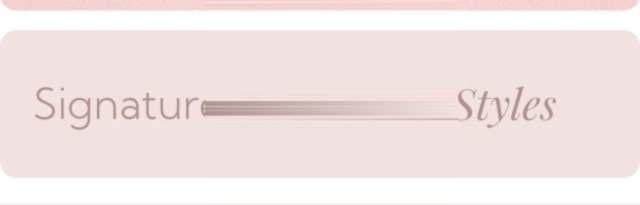
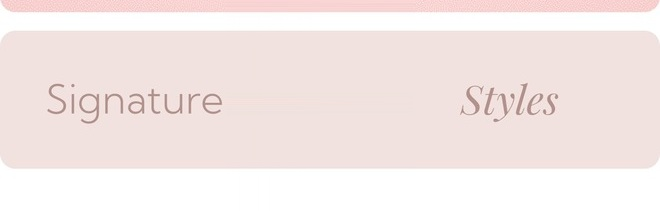
Slide 06: the ring grows on hover, one ring only; ring count 9; broken keyframes line repaired

diff --git a/ua/index.html b/ua/index.html
@@ -1152,12 +1152,11 @@ a.irow:hover b{text-decoration:underline}
   text-transform:uppercase;color:#9b948d}
 .ov .swipe svg{width:6.4cqw;height:2.6cqw;flex:none;color:#9b948d;animation:swipeArrow 2.4s ease-in-out infinite}
 .ov .swipe u{text-decoration:none}
-@keyframes swipeArrow{0%,100%{transform:translateX(-.9cqw);opacity:.45}50%{transform:translateX(.9cqw);opacity:1}}55%,100%{transform:translateX(-1.5cqw)}}
-.ov .sigclip{position:absolute;left:0;right:0;top:11.07%;height:10.95%;overflow:hidden;display:block}
-.ov .sigclip img{position:absolute;left:34.88%;top:0;width:27.13%;transform-origin:50% 50%;
-  animation:sigBreath 3.6s ease-in-out infinite}
-@keyframes sigBreath{0%,100%{transform:scale(1)}50%{transform:scale(1.075)}}
-@media (prefers-reduced-motion:reduce){.ov .sigclip img{animation:none}}
+@keyframes swipeArrow{0%,100%{transform:translateX(-.9cqw);opacity:.45}50%{transform:translateX(.9cqw);opacity:1}}
+.ov .sigclip{position:absolute;left:0;right:0;top:8.637%;height:16.719%;overflow:hidden;display:block;background:url(../img/n-sig-bg.jpg) center/100% 100% no-repeat}
+.ov .sigclip img{position:absolute;left:34.85%;top:14.69%;width:27.12%;transform-origin:50% 50%;transform:scale(1);transition:transform .7s cubic-bezier(.22,.61,.36,1)}
+.v2:hover .ov .sigclip img,.v2:active .ov .sigclip img{transform:scale(1.08)}
+@media (prefers-reduced-motion:reduce){.ov .sigclip img{transition:none}}
 
 /* 04 — однакова відстань від підказки свайпу до заголовка і до каблучок */
 .rf2 .r-swipe{margin:9.3cqw auto 3.4cqw}
@@ -1280,7 +1279,7 @@ a.irow:hover b{text-decoration:underline}
   <img class="silk sm" src="../img/silk.png" alt="">
   <div class="shead"><span class="num">06</span><h2><span class="sev low">Низький пріоритет</span>Смуга «Signature Styles» не реагує ні на що</h2></div>
   <div class="pbody">
-    <div class="txt t1"><div class="lbl"><span class="pill">Зараз</span><svg class="conn" viewBox="0 0 54 12"><path d="M0 6h50M45 1.5 50 6l-5 4.5" fill="none" stroke="#6d6d6d" stroke-width="1.5"/></svg></div><p>Одразу під банером лежить рожева смуга «Signature Styles» із каблучкою посередині — це <b>найдорожче місце сторінки</b>.</p><p>І це просто картинка: ні руху, ні реакції на дотик чи курсор. Вона читається як декоративна плашка, яку можна проґортати.</p></div><div class="v1"><div class="phone"><div class="screen"><div class="island"></div><div class="sbar"><span>9:41</span><svg viewBox="0 0 24 11"><rect x=".5" y=".5" width="20" height="10" rx="3" fill="none" stroke="#111"/><rect x="2" y="2" width="16" height="7" rx="1.5" fill="#111"/><rect x="21.5" y="3.5" width="1.8" height="4" rx=".9" fill="#111"/></svg></div><div class="view"><img class="shot" src="../img/n-signature-ctx-m.jpg" alt=""></div><div class="url"><span>rinfit.com</span></div></div></div><div class="cap">Смуга під банером — нерухома</div></div><div class="txt t2"><div class="lbl"><span class="pill">Пропонуємо</span><svg class="conn" viewBox="0 0 54 12"><path d="M0 6h50M45 1.5 50 6l-5 4.5" fill="none" stroke="#6d6d6d" stroke-width="1.5"/></svg></div><p>Оживити каблучку: вона <b>повільно наближається й віддаляється сама</b>, без наведення — на телефоні наводити нічим.</p><p>Праворуч — <b>той самий екран сайту</b>, змінено тільки одне: каблучка дихає.</p><span class="livetag"><i></i>анімація працює прямо тут</span></div><div class="v2"><div class="phone"><div class="screen"><div class="island"></div><div class="sbar"><span>9:41</span><svg viewBox="0 0 24 11"><rect x=".5" y=".5" width="20" height="10" rx="3" fill="none" stroke="#111"/><rect x="2" y="2" width="16" height="7" rx="1.5" fill="#111"/><rect x="21.5" y="3.5" width="1.8" height="4" rx=".9" fill="#111"/></svg></div><div class="view"><img class="shot" src="../img/n-signature-ctx-m.jpg" alt=""><div class="ov"><span class="sigclip"><img src="../img/n-sig-ring.png" alt=""></span></div></div><div class="url"><span>rinfit.com</span></div></div></div><div class="cap">Той самий екран — каблучка дихає</div></div><div class="cardcol"><div class="benefit-top"><span class="pill">Користь</span><span class="arrow"><svg width="14" height="16" viewBox="0 0 14 16"><path d="M7 1v13M1.5 8.5 7 14l5.5-5.5" fill="none" stroke="#444" stroke-width="1.6"/></svg></span></div><div class="card"><p>Смуга перестає бути прикрасою й починає вести в колекцію. Анімація — суто на стороні браузера: вага сторінки не росте, швидкість не падає.</p><div class="stats"><div><b>1-й екран</b><span>місце, де стоїть смуга</span></div><div><b>0 реакцій</b><span>на дотик і курсор зараз</span></div></div></div><div class="ptag"><span>Вартість</span><b>$30</b><em>1 год роботи &#183; $30/год</em></div></div>
+    <div class="txt t1"><div class="lbl"><span class="pill">Зараз</span><svg class="conn" viewBox="0 0 54 12"><path d="M0 6h50M45 1.5 50 6l-5 4.5" fill="none" stroke="#6d6d6d" stroke-width="1.5"/></svg></div><p>Одразу під банером лежить рожева смуга «Signature Styles» із каблучкою посередині — це <b>найдорожче місце сторінки</b>.</p><p>І це просто картинка: ні руху, ні реакції на дотик чи курсор. Вона читається як декоративна плашка, яку можна проґортати.</p></div><div class="v1"><div class="phone"><div class="screen"><div class="island"></div><div class="sbar"><span>9:41</span><svg viewBox="0 0 24 11"><rect x=".5" y=".5" width="20" height="10" rx="3" fill="none" stroke="#111"/><rect x="2" y="2" width="16" height="7" rx="1.5" fill="#111"/><rect x="21.5" y="3.5" width="1.8" height="4" rx=".9" fill="#111"/></svg></div><div class="view"><img class="shot" src="../img/n-signature-ctx-m.jpg" alt=""></div><div class="url"><span>rinfit.com</span></div></div></div><div class="cap">Смуга під банером — нерухома</div></div><div class="txt t2"><div class="lbl"><span class="pill">Пропонуємо</span><svg class="conn" viewBox="0 0 54 12"><path d="M0 6h50M45 1.5 50 6l-5 4.5" fill="none" stroke="#6d6d6d" stroke-width="1.5"/></svg></div><p>Каблучка відповідає на увагу: <b>коли курсор над плашкою, вона трохи наближається; коли курсор іде — повертається</b>. На телефоні те саме, поки палець тримає плашку.</p><p>Праворуч — <b>той самий екран сайту</b>, змінено тільки одне: каблучка реагує.</p><span class="livetag"><i></i>наведіть на телефон, щоб побачити</span></div><div class="v2"><div class="phone"><div class="screen"><div class="island"></div><div class="sbar"><span>9:41</span><svg viewBox="0 0 24 11"><rect x=".5" y=".5" width="20" height="10" rx="3" fill="none" stroke="#111"/><rect x="2" y="2" width="16" height="7" rx="1.5" fill="#111"/><rect x="21.5" y="3.5" width="1.8" height="4" rx=".9" fill="#111"/></svg></div><div class="view"><img class="shot" src="../img/n-signature-ctx-m.jpg" alt=""><div class="ov"><span class="sigclip"><img src="../img/n-sig-ring.png" alt=""></span></div></div><div class="url"><span>rinfit.com</span></div></div></div><div class="cap">Той самий екран — при наведенні каблучка ближче</div></div><div class="cardcol"><div class="benefit-top"><span class="pill">Користь</span><span class="arrow"><svg width="14" height="16" viewBox="0 0 14 16"><path d="M7 1v13M1.5 8.5 7 14l5.5-5.5" fill="none" stroke="#444" stroke-width="1.6"/></svg></span></div><div class="card"><p>Смуга перестає бути прикрасою й починає вести в колекцію. Анімація — суто на стороні браузера: вага сторінки не росте, швидкість не падає.</p><div class="stats"><div><b>1-й екран</b><span>місце, де стоїть смуга</span></div><div><b>0 реакцій</b><span>на дотик і курсор зараз</span></div></div></div><div class="ptag"><span>Вартість</span><b>$30</b><em>1 год роботи &#183; $30/год</em></div></div>
   </div>
 </section>
 
@@ -1313,7 +1312,7 @@ a.irow:hover b{text-decoration:underline}
     <div class="tcol">
       <div class="benefit-top"><span class="pill">Користь</span><span class="arrow"><svg width="14" height="16" viewBox="0 0 14 16"><path d="M7 1v13M1.5 8.5 7 14l5.5-5.5" fill="none" stroke="#444" stroke-width="1.6"/></svg></span></div>
       <div class="card"><p>Покупець приміряє каблучку до покупки — менше обмінів через розмір, більше часу на сторінці й готовий матеріал для TikTok, де в бренду вже є аудиторія.</p>
-        <div class="stats"><div><b>12 каблучок</b><span>уже змодельовано</span></div><div><b>на пристрої</b><span>камера нікуди не передається</span></div></div></div>
+        <div class="stats"><div><b>9 каблучок</b><span>уже змодельовано</span></div><div><b>на пристрої</b><span>камера нікуди не передається</span></div></div></div>
       <div class="ptag"><span>Вартість</span><b>Окремо</b><em>обсяг і ціну узгоджуємо після демо</em></div>
     </div>
   </div>
@@ -1388,8 +1387,8 @@ Keep your fingers pointing up.</div></div>
     <div class="pbox alt">
       <span class="pill">Окремо: примірка каблучки</span>
       <div class="sum">Демо</div>
-      <p>Примірка через камеру прямо на сторінці товару. Прототип із 12 змодельованими каблучками вбудований у цей документ — його можна спробувати на слайді 08. Обсяг і вартість узгоджуємо після демонстрації.</p>
-      <div class="terms"><span>12 каблучок змодельовано</span><span>Працює на пристрої покупця</span></div>
+      <p>Примірка через камеру прямо на сторінці товару. Прототип із 9 змодельованими каблучками вбудований у цей документ — його можна спробувати на слайді 08. Обсяг і вартість узгоджуємо після демонстрації.</p>
+      <div class="terms"><span>9 каблучок змодельовано</span><span>Працює на пристрої покупця</span></div>
     </div>
     </div>
     <div class="plist"><h4><span class="sev crit">Критично</span> 3 год · $90</h4><div class="prow"><i>01</i><span>Обраний колір доходить до вікна покупки</span><em>3 год</em><b>$90</b></div><h4 style="margin-top:22px"><span class="sev imp">Середній пріоритет</span> 3 год · $90</h4><div class="prow"><i>02</i><span>Справжня кнопка на головному банері</span><em>1 год</em><b>$30</b></div><div class="prow"><i>03</i><span>Знижка помітною плашкою біля ціни</span><em>0,5 год</em><b>$15</b></div><div class="prow"><i>04</i><span>Підказка свайпу для рядів на телефоні</span><em>1,5 год</em><b>$45</b></div><h4 style="margin-top:22px"><span class="sev low">Низький пріоритет</span> 3 год · $90</h4><div class="prow"><i>05</i><span>Один радіус для картинок і кнопок</span><em>1 год</em><b>$30</b></div><div class="prow"><i>06</i><span>Каблучка в Signature Styles оживає</span><em>1 год</em><b>$30</b></div><div class="prow"><i>07</i><span>Однакове тло мініатюр у Community</span><em>1 год</em><b>$30</b></div><div class="ptotal"><span>Разом</span><span>9 год · $270</span></div></div>

diff --git a/index.html b/index.html
@@ -1147,12 +1147,13 @@ a.irow:hover b{text-decoration:underline}
   text-transform:uppercase;color:#9b948d}
 .ov .swipe svg{width:6.4cqw;height:2.6cqw;flex:none;color:#9b948d;animation:swipeArrow 2.4s ease-in-out infinite}
 .ov .swipe u{text-decoration:none}
-@keyframes swipeArrow{0%,100%{transform:translateX(-.9cqw);opacity:.45}50%{transform:translateX(.9cqw);opacity:1}}55%,100%{transform:translateX(-1.5cqw)}}
-.ov .sigclip{position:absolute;left:0;right:0;top:11.07%;height:10.95%;overflow:hidden;display:block}
-.ov .sigclip img{position:absolute;left:34.88%;top:0;width:27.13%;transform-origin:50% 50%;
-  animation:sigBreath 3.6s ease-in-out infinite}
-@keyframes sigBreath{0%,100%{transform:scale(1)}50%{transform:scale(1.075)}}
-@media (prefers-reduced-motion:reduce){.ov .sigclip img{animation:none}}
+@keyframes swipeArrow{0%,100%{transform:translateX(-.9cqw);opacity:.45}50%{transform:translateX(.9cqw);opacity:1}}
+/* the band with the ring painted out sits under the cut-out ring, so the ring can grow without a second copy
+   showing through; it grows a little while the cursor is over the phone (or a finger holds it) and settles back */
+.ov .sigclip{position:absolute;left:0;right:0;top:8.637%;height:16.719%;overflow:hidden;display:block;background:url(img/n-sig-bg.jpg) center/100% 100% no-repeat}
+.ov .sigclip img{position:absolute;left:34.85%;top:14.69%;width:27.12%;transform-origin:50% 50%;transform:scale(1);transition:transform .7s cubic-bezier(.22,.61,.36,1)}
+.v2:hover .ov .sigclip img,.v2:active .ov .sigclip img{transform:scale(1.08)}
+@media (prefers-reduced-motion:reduce){.ov .sigclip img{transition:none}}
 
 /* 04 — однакова відстань від підказки свайпу до заголовка і до каблучок */
 .rf2 .r-swipe{margin:9.3cqw auto 3.4cqw}
@@ -1274,7 +1275,7 @@ a.irow:hover b{text-decoration:underline}
   <img class="silk sm" src="img/silk.png" alt="">
   <div class="shead"><span class="num">06</span><h2><span class="sev low">Low priority</span>The “Signature Styles” band reacts to nothing</h2></div>
   <div class="pbody">
-    <div class="txt t1"><div class="lbl"><span class="pill">Today</span><svg class="conn" viewBox="0 0 54 12"><path d="M0 6h50M45 1.5 50 6l-5 4.5" fill="none" stroke="#6d6d6d" stroke-width="1.5"/></svg></div><p>Right under the banner sits the pink “Signature Styles” band with a ring in the middle — <b>the most valuable spot on the page</b>.</p><p>And it is just a picture: no motion, no reaction to tap or cursor. It reads as a decorative strip you can scroll past.</p></div><div class="v1"><div class="phone"><div class="screen"><div class="island"></div><div class="sbar"><span>9:41</span><svg viewBox="0 0 24 11"><rect x=".5" y=".5" width="20" height="10" rx="3" fill="none" stroke="#111"/><rect x="2" y="2" width="16" height="7" rx="1.5" fill="#111"/><rect x="21.5" y="3.5" width="1.8" height="4" rx=".9" fill="#111"/></svg></div><div class="view"><img class="shot" src="img/n-signature-ctx-m.jpg" alt=""></div><div class="url"><span>rinfit.com</span></div></div></div><div class="cap">The band under the banner — static</div></div><div class="txt t2"><div class="lbl"><span class="pill">We propose</span><svg class="conn" viewBox="0 0 54 12"><path d="M0 6h50M45 1.5 50 6l-5 4.5" fill="none" stroke="#6d6d6d" stroke-width="1.5"/></svg></div><p>Bring the ring to life: it <b>slowly moves closer and back on its own</b>, with no hover — on a phone there is nothing to hover with.</p><p>On the right — <b>the same screen of your site</b>, with one thing changed: the ring breathes.</p><span class="livetag"><i></i>the animation runs right here</span></div><div class="v2"><div class="phone"><div class="screen"><div class="island"></div><div class="sbar"><span>9:41</span><svg viewBox="0 0 24 11"><rect x=".5" y=".5" width="20" height="10" rx="3" fill="none" stroke="#111"/><rect x="2" y="2" width="16" height="7" rx="1.5" fill="#111"/><rect x="21.5" y="3.5" width="1.8" height="4" rx=".9" fill="#111"/></svg></div><div class="view"><img class="shot" src="img/n-signature-ctx-m.jpg" alt=""><div class="ov"><span class="sigclip"><img src="img/n-sig-ring.png" alt=""></span></div></div><div class="url"><span>rinfit.com</span></div></div></div><div class="cap">The same screen — the ring breathes</div></div><div class="cardcol"><div class="benefit-top"><span class="pill">Why it pays</span><span class="arrow"><svg width="14" height="16" viewBox="0 0 14 16"><path d="M7 1v13M1.5 8.5 7 14l5.5-5.5" fill="none" stroke="#444" stroke-width="1.6"/></svg></span></div><div class="card"><p>The band stops being an ornament and starts leading into the collection. The animation is pure browser-side: page weight does not grow, speed does not drop.</p><div class="stats"><div><b>1st screen</b><span>where the band sits</span></div><div><b>0 reactions</b><span>to tap and cursor today</span></div></div></div><div class="ptag"><span>Price</span><b>$30</b><em>1 h &#183; $30/h</em></div></div>
+    <div class="txt t1"><div class="lbl"><span class="pill">Today</span><svg class="conn" viewBox="0 0 54 12"><path d="M0 6h50M45 1.5 50 6l-5 4.5" fill="none" stroke="#6d6d6d" stroke-width="1.5"/></svg></div><p>Right under the banner sits the pink “Signature Styles” band with a ring in the middle — <b>the most valuable spot on the page</b>.</p><p>And it is just a picture: no motion, no reaction to tap or cursor. It reads as a decorative strip you can scroll past.</p></div><div class="v1"><div class="phone"><div class="screen"><div class="island"></div><div class="sbar"><span>9:41</span><svg viewBox="0 0 24 11"><rect x=".5" y=".5" width="20" height="10" rx="3" fill="none" stroke="#111"/><rect x="2" y="2" width="16" height="7" rx="1.5" fill="#111"/><rect x="21.5" y="3.5" width="1.8" height="4" rx=".9" fill="#111"/></svg></div><div class="view"><img class="shot" src="img/n-signature-ctx-m.jpg" alt=""></div><div class="url"><span>rinfit.com</span></div></div></div><div class="cap">The band under the banner — static</div></div><div class="txt t2"><div class="lbl"><span class="pill">We propose</span><svg class="conn" viewBox="0 0 54 12"><path d="M0 6h50M45 1.5 50 6l-5 4.5" fill="none" stroke="#6d6d6d" stroke-width="1.5"/></svg></div><p>Let the ring answer: <b>when the cursor comes over the band, the ring grows a little; when it leaves, it settles back</b>. On a phone the same happens while a finger holds the band.</p><p>On the right — <b>the same screen of your site</b>, with one thing changed: the ring reacts.</p><span class="livetag"><i></i>hover over the phone to see it</span></div><div class="v2"><div class="phone"><div class="screen"><div class="island"></div><div class="sbar"><span>9:41</span><svg viewBox="0 0 24 11"><rect x=".5" y=".5" width="20" height="10" rx="3" fill="none" stroke="#111"/><rect x="2" y="2" width="16" height="7" rx="1.5" fill="#111"/><rect x="21.5" y="3.5" width="1.8" height="4" rx=".9" fill="#111"/></svg></div><div class="view"><img class="shot" src="img/n-signature-ctx-m.jpg" alt=""><div class="ov"><span class="sigclip"><img src="img/n-sig-ring.png" alt=""></span></div></div><div class="url"><span>rinfit.com</span></div></div></div><div class="cap">The same screen — hover: the ring comes closer</div></div><div class="cardcol"><div class="benefit-top"><span class="pill">Why it pays</span><span class="arrow"><svg width="14" height="16" viewBox="0 0 14 16"><path d="M7 1v13M1.5 8.5 7 14l5.5-5.5" fill="none" stroke="#444" stroke-width="1.6"/></svg></span></div><div class="card"><p>The band stops being an ornament and starts leading into the collection. The animation is pure browser-side: page weight does not grow, speed does not drop.</p><div class="stats"><div><b>1st screen</b><span>where the band sits</span></div><div><b>0 reactions</b><span>to tap and cursor today</span></div></div></div><div class="ptag"><span>Price</span><b>$30</b><em>1 h &#183; $30/h</em></div></div>
   </div>
 </section>
 
@@ -1307,7 +1308,7 @@ a.irow:hover b{text-decoration:underline}
     <div class="tcol">
       <div class="benefit-top"><span class="pill">Why it pays</span><span class="arrow"><svg width="14" height="16" viewBox="0 0 14 16"><path d="M7 1v13M1.5 8.5 7 14l5.5-5.5" fill="none" stroke="#444" stroke-width="1.6"/></svg></span></div>
       <div class="card"><p>The shopper tries the ring on before buying — fewer size exchanges, more time on page, and ready-made TikTok material for a brand that already has an audience there.</p>
-        <div class="stats"><div><b>12 rings</b><span>already modeled</span></div><div><b>on-device</b><span>the camera feed never leaves the phone</span></div></div></div>
+        <div class="stats"><div><b>9 rings</b><span>already modeled</span></div><div><b>on-device</b><span>the camera feed never leaves the phone</span></div></div></div>
       <div class="ptag"><span>Price</span><b>Separate</b><em>scope and price agreed after the demo</em></div>
     </div>
   </div>
@@ -1382,8 +1383,8 @@ Keep your fingers pointing up.</div></div>
     <div class="pbox alt">
       <span class="pill">Separate: ring try-on</span>
       <div class="sum">Demo</div>
-      <p>Camera try-on right on the product page. A prototype with 12 modeled rings is embedded in this document — you can try it on slide 08. Scope and price agreed after the demo.</p>
-      <div class="terms"><span>12 rings modeled</span><span>Runs on the shopper’s device</span></div>
+      <p>Camera try-on right on the product page. A prototype with 9 modeled rings is embedded in this document — you can try it on slide 08. Scope and price agreed after the demo.</p>
+      <div class="terms"><span>9 rings modeled</span><span>Runs on the shopper’s device</span></div>
     </div>
     </div>
     <div class="plist"><h4><span class="sev crit">Critical</span> 3 h · $90</h4><div class="prow"><i>01</i><span>The chosen color reaches the buy panel</span><em>3 h</em><b>$90</b></div><h4 style="margin-top:22px"><span class="sev imp">Medium priority</span> 3 h · $90</h4><div class="prow"><i>02</i><span>A real button on the main banner</span><em>1 h</em><b>$30</b></div><div class="prow"><i>03</i><span>Discount as a visible chip next to the price</span><em>0.5 h</em><b>$15</b></div><div class="prow"><i>04</i><span>Swipe hint for the mobile rows</span><em>1.5 h</em><b>$45</b></div><h4 style="margin-top:22px"><span class="sev low">Low priority</span> 3 h · $90</h4><div class="prow"><i>05</i><span>One radius for images and buttons</span><em>1 h</em><b>$30</b></div><div class="prow"><i>06</i><span>The Signature Styles ring comes alive</span><em>1 h</em><b>$30</b></div><div class="prow"><i>07</i><span>Same backdrop for Community thumbnails</span><em>1 h</em><b>$30</b></div><div class="ptotal"><span>Total</span><span>9 h · $270</span></div></div>
